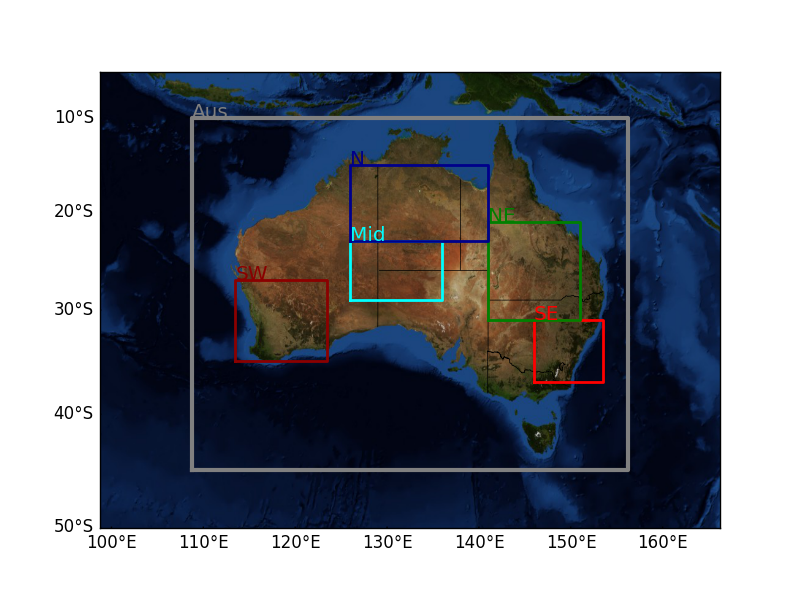
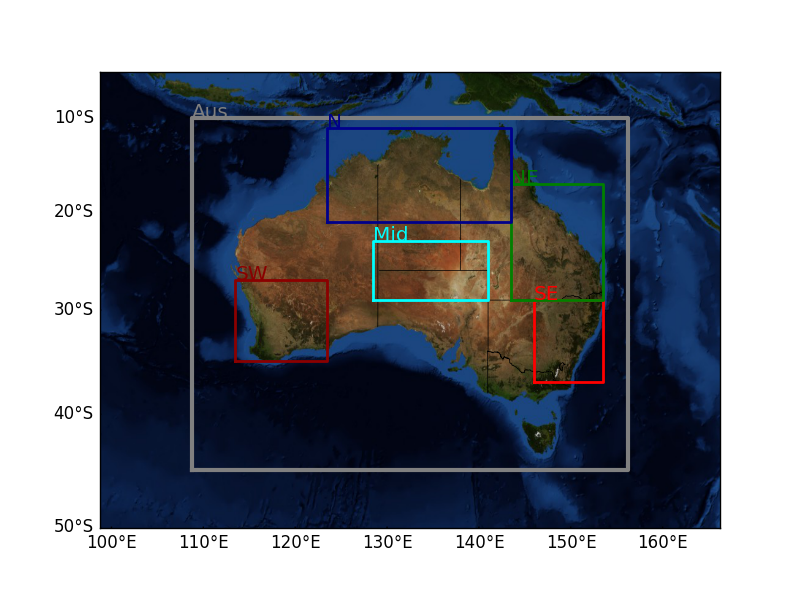
updated subregions, added kg/day calc to localtests

Changed region(s): [[0.4062, 0.18, 0.7812, 0.54]]

diff --git a/tests.py b/tests.py
@@ -12,9 +12,9 @@ import reprocess
 from utilities import plotting as pp
 from utilities.JesseRegression import RMA
 from utilities import utilities as util
+
+from classes import campaign
 from classes.omhchorp import omhchorp as omrp
-from utilities.utilities import match_bottom_levels
-from classes.GC_class import GC_tavg, GC_sat
 
 # Tests are pulled in from tests/blah.py
 from tests import check_files, test_filters, RSC_tests, test_E_new
@@ -22,12 +22,12 @@ from tests import check_files, test_filters, RSC_tests, test_E_new
 import numpy as np
 from numpy.ma import MaskedArray as ma
 from scipy import stats
-from copy import deepcopy as dcopy
 
 from datetime import datetime#, timedelta
 
-from mpl_toolkits.basemap import Basemap, maskoceans
+from mpl_toolkits.basemap import maskoceans
 import matplotlib.pyplot as plt
+plt.ioff() # fix occasional problem with plotting datetimes
 from matplotlib.colors import LogNorm # for lognormal colour bar
 from matplotlib.ticker import FormatStrFormatter # tick formats
 
@@ -86,20 +86,36 @@ def check_array(array, nonzero=False):
 #############################################################################
 
 def compare_campaigns():
-    mumba=campaign()
-    mumba.read_mumba()
-    sps1=campaign()
-    sps1.read_sps(1)
-    sps2=campaign()
-    sps2.read_sps(2)
+    mumba = campaign.mumba()
+    sps1  = campaign.sps(1)
+    sps2  = campaign.sps(2)
 
     plt.figure()
-    plt.subplot(2,3,1)
+    ax1 = plt.subplot(2,3,1)
     mumba.plot_series(title='MUMBA')
-    plt.subplot(2,3,2)
+    plt.ylim([0,18])
+
+    ax2 = plt.subplot(2,3,2, sharey=ax1)
     sps1.plot_series(title='SPS1')
-    plt.subplot(2,3,3)
+    ax2.set_ylabel('')
+
+    ax3 = plt.subplot(2,3,3, sharey=ax1)
     sps2.plot_series(title='SPS2')
+    ax3.set_ylabel('')
+    plt.legend(fontsize=16, frameon=False)
+
+    for ax in [ax1,ax2,ax3]:
+        plt.sca(ax)
+        plt.tick_params(
+                    axis='both',          # changes apply to the x-axis
+                    which='both',      # both major and minor ticks are affected
+                    right=False,      # ticks along the bottom edge are off
+                    top=False,         # ticks along the top edge are off
+                    )#labelbottom=False) # labels along the
+
+    pp.remove_spines(ax1, left=True, bottom=True)
+    pp.remove_spines(ax2, left=True, bottom=True)
+    pp.remove_spines(ax3, left=True, bottom=True)
 
 
     plt.subplot(2,1,2)
@@ -107,12 +123,12 @@ def compare_campaigns():
     d1,i1=sps1.get_daily_hour(key='isop')
     d2,i2=sps2.get_daily_hour(key='isop')
 
-    pp.plot_yearly_cycle(isop,dates,color='m',label='MUMBA',linewidth=2)
-    pp.plot_yearly_cycle(i1,d1,color='pink',label='SPS1',linewidth=2)
-    pp.plot_yearly_cycle(i2,d2,color='orange',label='SPS2',linewidth=2)
+    pp.plot_yearly_cycle(isop,dates,color='m',label='MUMBA',linewidth=2) # (2012/2013)
+    pp.plot_yearly_cycle(i1,d1,color='pink',label='SPS1',linewidth=2)  # 2011
+    pp.plot_yearly_cycle(i2,d2,color='orange',label='SPS2',linewidth=2) # 2012
 
     plt.legend()
-    plt.title('isoprene yearly cycle')
+    plt.title('isoprene superimposed onto one year')
     plt.tight_layout()
     pname='Figs/campaigns_compared.png'
     plt.savefig(pname)
@@ -462,15 +478,15 @@ def Check_AMF_relevelling():
     xlims=[2,12]
     ylims=[1300,.5]
 
-    p00,p10,a00,a10=match_bottom_levels(p0.copy(),p1.copy(),a0.copy(),a1.copy())
+    p00,p10,a00,a10=util.match_bottom_levels(p0.copy(),p1.copy(),a0.copy(),a1.copy())
     #print((p1,p10,a1,a10))
     assert p1[0]!=p10[0] and a1[0]!=a10[0], 'Err: No change in lowest level!'
     assert (a0 == a00).all() and (p0 == p00).all(), 'Err: Higher levels changed!'
     p1c=p1.copy() # make sure arguments aren't edited?
-    p00,p10,a00,a10=match_bottom_levels(p0,p1c,a0,a1)
+    p00,p10,a00,a10=util.match_bottom_levels(p0,p1c,a0,a1)
     assert (p1c==p1).all(), 'Err: Argument changed!'
-    p11,p21,a11,a21=match_bottom_levels(p1,p2,a1,a2)
-    p12,p32,a12,a32=match_bottom_levels(p1,p3,a1,a3)
+    p11,p21,a11,a21=util.match_bottom_levels(p1,p2,a1,a2)
+    p12,p32,a12,a32=util.match_bottom_levels(p1,p3,a1,a3)
 
     # look at 0vs1, 1vs2, 1vs3
     f,axes=plt.subplots(1,3,sharey=True,sharex=True,squeeze=True)
@@ -1704,6 +1720,7 @@ if __name__ == '__main__':
     de=datetime(2007,12,31)
     #Summary_Single_Profile()
 
+
     #####################
     ### E_new tests
     #####################
@@ -1782,7 +1799,7 @@ if __name__ == '__main__':
     # TODO: Finish this one
     #test_filters.smearing_vs_yield()
     ## smearing binned by NOx levels
-    test_filters.smearing_vs_nox()
+    #test_filters.smearing_vs_nox()
 
     ######
     ### Tests to be sorted into files
@@ -1844,3 +1861,9 @@ if __name__ == '__main__':
 
     # check the ref sector correction is not weird.
     #check_RSC(track_corrections=True)
+
+    ####
+    ## Finished tests
+    ####
+    # campaign summaries
+    #compare_campaigns()

diff --git a/classes/campaign.py b/classes/campaign.py
@@ -57,7 +57,7 @@ class campaign:
         data=getattr(self,key)[inds]
         return dates,data
 
-    def plot_series(self,title=None,pname=None,dfmt='%Y%m%d'): #'%d %b'):
+    def plot_series(self,title=None,pname=None,dfmt='%Y %b %d'): #'%d %b'):
 
         dates=self.dates
 
@@ -90,6 +90,8 @@ class mumba(campaign):
             Reads MUMBA campaign data isoprene, ozone, and hcho
             Code taken from Jenny's READ_MUMBA method
         '''
+        # set up attributes
+        super(mumba,self).__init__()
 
         # Read files with desired data, resampled to 60 minute means
         isop_df=fio.read_mumba_var('ISOP')
@@ -107,20 +109,21 @@ class mumba(campaign):
 
         self.dates=dates_isop # UTC+10
 
+        # NAMES HAVE PPBV but documentations shows units are ppb
         self.isop                   = np.array(isop_df['C5H8 [ppbv]'])
-        self.attrs['isop']['units'] = 'ppbv'
+        self.attrs['isop']['units'] = 'ppb'
         self.attrs['isop']['DL']    = 0.003
         self.attrs['isop']['DL_full']    = '20121221-20121229: .003, 20122912-20130118: .005, 20130119-20130215: .003'
         #range1=dates_isop <
 
         self.hcho                   = np.array(hcho_df['HCHO [ppbv]'])
-        self.attrs['hcho']['units'] = 'ppbv'
+        self.attrs['hcho']['units'] = 'ppb'
         self.attrs['hcho']['DL']    = 0.105
         self.attrs['hcho']['DL_full']    = '20121221-20121229: .205, 20122912-20130118: .105, 20130119-20130215: .186'
 
         # ignore last 16 o3 measurements as they occur without matching hcho and isop measurements.
         self.ozone                  = np.array(o3_df['O3 [ppbv] (mean of hourly O3 concentration)'])[0:-16]
-        self.attrs['ozone']['units']= 'ppbv'
+        self.attrs['ozone']['units']= 'ppb'
         self.attrs['ozone']['DL']   = 0.5
 
         # Any measurements below detection limits are set to half the DL
@@ -149,6 +152,8 @@ class sps(campaign):
             # Measurements are reported in local time (UTC+10)
             # units are unlisted in the doi
         '''
+        # set up attributes
+        super(sps,self).__init__()
 
         # data
         self.fpath='Data/campaigns/SPS%d/SPS%d_PTRMS.csv'%(number,number)

diff --git a/localtests.py b/localtests.py
@@ -1,4 +1,4 @@
-n#!/usr/bin/env python3
+#!/usr/bin/env python3
 # -*- coding: utf-8 -*-
 """
 Created on Thu Oct 12 12:15:43 2017
@@ -66,6 +66,33 @@ start1=timeit.default_timer()
 ##########
 
 #testread = GC_class.Hemco_diag(d0,d3)
+
+d0=datetime(2005,1,1)
+de=datetime(2005,1,31)
+
+Enew=E_new(d0,de)
+lats=Enew.lats_lr
+lons=Enew.lons_lr
+dates=Enew.dates
+
+# daylengths are from 14hrs (mid-summer) to 10hrs (mid-winter)
+# daylengths extend change by 20, 40, 60, 60, 40, 20 minutes between peaks
+monthly_daylength_changes = np.array([20, -20, -40, -60, -60, -40, -20, 20, 40, 60, 60, 40])
+monthly_daylengths = 14*60-20 + np.cumsum(monthly_daylength_changes) # in minutes
+
+daily_daylengths = np.array([monthly_daylengths[d.month-1] for d in dates])/60.0 # in hours
+# repeat over lat,lon axes
+daily_daylengths = np.repeat(daily_daylengths[:,np.newaxis], len(lats), axis=1)
+daily_daylengths = np.repeat(daily_daylengths[:,:,np.newaxis], len(lons), axis=2)
+midday_kg = Enew.E_VCC_PP_lr * Enew.conversion_to_kg_lr * 3600 # in kg/hours
+daily_kg = midday_kg * 0.637 *daily_daylengths
+daily_kg_neg = daily_kg.copy()
+midday_kg[midday_kg<0] = 0
+daily_kg = midday_kg * 0.637 *daily_daylengths
+print('with negatives: ',np.nanmean(daily_kg_neg))
+print('without negatives: ',np.nanmean(daily_kg))
+print('diff = ', 100*(np.nanmean(daily_kg)-np.nanmean(daily_kg_neg))/np.nanmean(daily_kg_neg))
+
 
 colors=pp.__subregions_colors__
 colors[0]='grey'

diff --git a/utilities/GMAO.py b/utilities/GMAO.py
@@ -14,11 +14,11 @@ __TOA__    = 0.01 # hPa top pressure edge of GEOS-Chem outputs
 __AUSREGION__=[-45, 108.75, -10, 156.25]
 __GLOBALREGION__=[-69, -178.75, 69, 178.75]
 __subregions__ = [__AUSREGION__,  # first zone is container for the rest
-                  [-37,146,-31,153.5], # south eastern aus
-                  [-31,141,-21,151], # north eastern aus
-                  [-29,126,-23,136], # Emptly land
+                  [-37,146,-29,153.5], # south eastern aus
+                  [-29,143.5,-17,153.5], # north eastern aus
+                  [-29,128.5,-23,141], # Emptly land
                   [-35,113.5,-27,123.5], # south western aus
-                  [-23,126,-15,141], # Northern Aus
+                  [-21,123.5,-11,143.5], # Northern Aus
                   ]
 __subregions_colors__ = ['k', 'red', 'green', 'cyan', 'darkred', 'darkblue']
 __subregions_labels__ = ['Aus', 'SE','NE','Mid','SW','N']

diff --git a/Analyse_E_isop.py b/Analyse_E_isop.py
@@ -140,12 +140,10 @@ def yearly_megan_cycle(d0=datetime(2005,1,1), dn=datetime(2007,12,31)):
 def yearly_cycle_vs_campaigns(d0=datetime(2005,1,1),dn=datetime(2007,12,31)):
     '''
     '''
-    mumba=campaign()
-    mumba.read_mumba()
-    sps1=campaign()
-    sps1.read_sps(1)
-    sps2=campaign()
-    sps2.read_sps(2)
+    mumba = campaign.mumba()
+    sps1  = campaign.sps(1)
+    sps2  = campaign.sps(2)
+
     colors=['m','pink','orange']
 
     Enew=E_new(d0,dn)
@@ -311,9 +309,10 @@ def Emissions_weight():
         Print out emissions in molec/cm2/s and kg/s for each season
     '''
     d0=datetime(2005,1,1)
-    de=datetime(2010,12,31)
+    de=datetime(2007,12,31)
     print('TODO: extend to 2013 when ready')
     Enew=E_new(d0,de)
+    Enew.conversion_to_kg
 
 
 def E_regional_time_series(d0=datetime(2005,1,1),dn=datetime(2005,12,31),

diff --git a/classes/E_new.py b/classes/E_new.py
@@ -40,7 +40,7 @@ __E_new_keys__=[            # #  # {time, lats, lons}
                 'E_MEGAN',      #  {31, 18, 19}
                 'E_VCC_GC',     #  {31, 152, 152}
                 'E_VCC_GC_u',   #  With unfiltered by fire/smoke/anthro
-                'E_VCC_GC_lr',  #  at low resolution
+                'E_VCC_GC_lr',  #  at low resolution: {31,18,19}
                 'E_VCC_OMI',    #  {31, 152, 152}
                 'E_VCC_OMI_u',  #  E_VCC_OMI without any filters applied
                 'E_VCC_OMI_lr', #  E_VCC_OMI at low resolution
